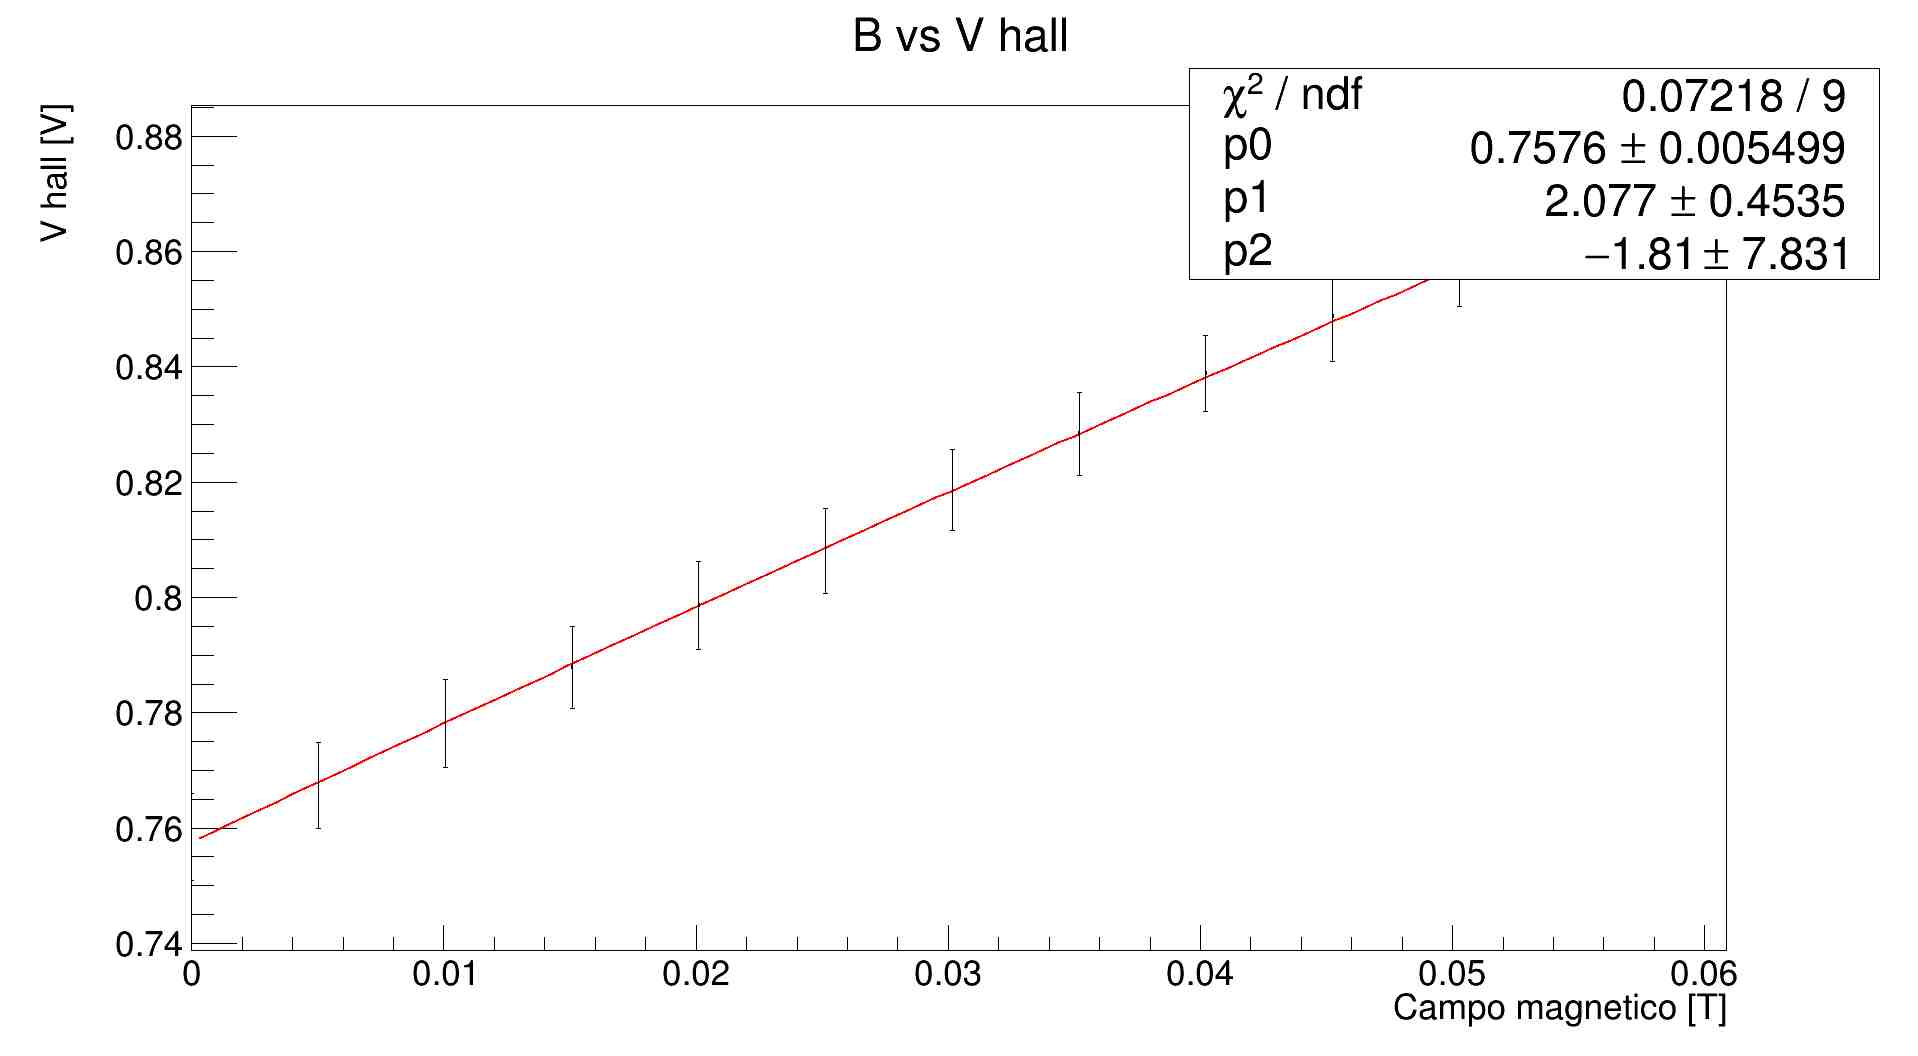
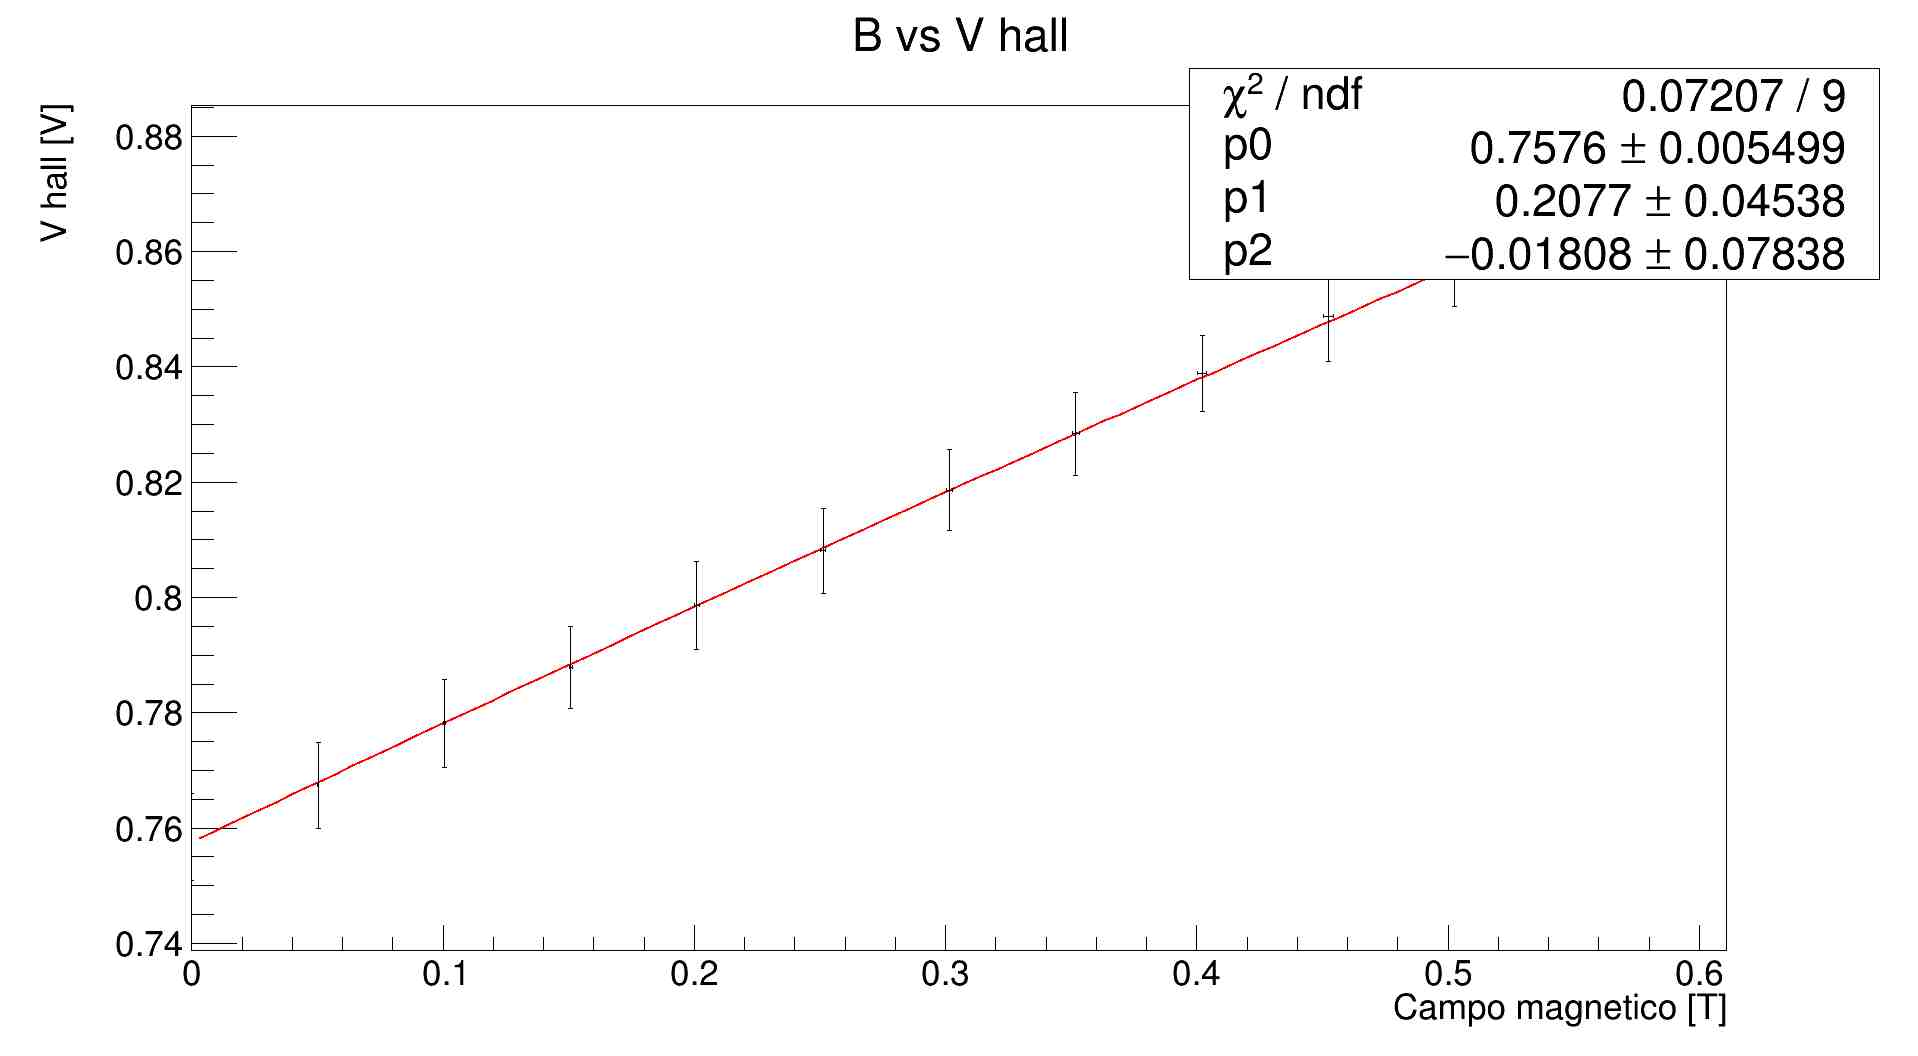
dati 2.0

diff --git a/macroVlong.C b/macroVlong.C
@@ -1,10 +1,10 @@
 {
 
-    double_t V , v , B , b , EV , ev , EB , eb;
+    double V , v , B , b , EV , ev , EB , eb;
     double V_hall , V_long;
     int i=0;
-    string fileName = "VhvsB+.dat"
-    string filename = "VhvsB-.dat"
+    string fileName = "VhvsB+.dat";
+    string filename = "VhvsB-.dat";
 
     ifstream input1(fileName);
     ifstream input2(filename);
@@ -12,65 +12,47 @@
 
     ofstream out1("vhall.dat");
     ofstream out2("vlong.dat");
+    
+    TGraphErrors vhall, vlong;
 
-/*
-    TLatex t1, t2;
-    string title1 = t1.DrawLatex(0.5 , .6 ,"tensione di hall vs campo magnetico")
-    string title2 = t2.DrawLatex(0. , .6 ,"V_long vs campo magnetico")
-*/
-
-    auto *c1 = new TCanvas( "c1" , "tensione di hall vs campo magnetico") 
-    auto *c1 = new TCanvas( "c1" , "V_long vs campo magnetico") 
-
-    auto *vhall  = new TGraphErrors;
-    auto *vlong  = new TGraphErrors;
-
-
-    const char *function1 = "[0] + [1]*x"
-    const char *function2 = "[2] + [3]*pow(x,2)"
-
-
-    auto *f1 = new TF1("f1", function1)
-    auto *f2 = new TF1("f2", function2)
+    TF1 function1 ("f1","[0] + [1]*x");
+    TF1  function2 ("f2","[2] + [3]*pow(x,2)");
 
 
     while (input1 >> V >> B >> EV >> EB) // maiuscole B+ , minuscole B-
     {
-        intput2 >> v >> b >> ev >> eb
+        input2 >> v >> b >> ev >> eb;
 
-        V_hall = (V-v)/2
-        V_long = (V+v)/2
+        V_hall = (V-v)/2;
+        V_long = (V+v)/2;
 
-        ev_both = sqrt(pow(EV,2)+pow(ev,2))
+        double ev_both = sqrt(pow(EV,2)+pow(ev,2));
 
-        out1 << V_hall << B << ev_both << EB
-        out2 << V_long << B << ev_both << EB
+        //out1 << V_hall << B << ev_both << EB;
+        //out2 << V_long << B << ev_both << EB;
 
 
-        vhall->SetPoint(i, B , V_hall)
-        vlong->SetPoint(i, B , V_long)
+        vhall.SetPoint(i, B , V_hall);
+        vlong.SetPoint(i, B , V_long);
 
-        vhall->SetPointError(i, EB , ev_both)
-        vlong->SetPointError(i, EB , ev_both)
+        vhall.SetPointError(i, EB , ev_both);
+        vlong.SetPointError(i, EB , ev_both);
 
-        i++
+        i++;
         
     }
+
+    TCanvas c1("vhall", "vhall", 1920, 1080);
+    TCanvas c2("vlong", "vlong", 1920, 1080);
+
+    vhall.Fit("f1");
+    vlong.Fit("f2");
+
+    gStyle->SetOptFit();
+    c1.cd();
+    vhall.Draw("AP");
+    c2.cd();
+    vlong.Draw("AP");
+
     
-
-
-
-    vhall->Draw("AP")
-    vlong->Draw("AP")
-
-    vhall->Fit("f1")
-    vlong->Fit("f2")
-
-
-
-
-
-
-
-
 }

diff --git a/dataLab_divide.py b/dataLab_divide.py
@@ -18,8 +18,8 @@ l2 = ufloat(18e-2,1e-3)
 l3 = ufloat(3e-2 , 1e-3)
 l4 = ufloat(3e-2 , 1e-3)
 l5 = ufloat(6e-2 , 1e-3)
-l_t = ufloat(7e-2 , 5e-5)
-l_m_calc = 3*l1 - 3*l4 + 0.5*l2 -l_t
+l_t = ufloat(7e-3 , 5e-5)
+l_m_calc = 2*l1 - 4*l4 + l2 - l_t
 l_m_n = l_m_calc.n
 l_m_s = l_m_calc.s
 l_m = ufloat( l_m_n , l_m_s )
@@ -35,7 +35,7 @@ dd = 1 #count divide canvas
 #GRAFICO B vs V_HALL PROGRESSIVO
 gr2 = ROOT.TGraphErrors()
 f2 = ROOT.TF1("f" ,"[0] + [1] * x + [2] * pow(x,2)")
-#c2 = ROOT.TCanvas("c1", "canvas", 1920, 1080)
+c2 = ROOT.TCanvas("c1", "canvas", 1920, 1080)
 gr2.SetTitle("B vs V hall")
 gr2.GetXaxis().SetTitle("Campo magnetico [T]")
 gr2.GetYaxis().SetTitle("V hall [V]")
@@ -45,7 +45,7 @@ nn = 0 #counter punti
 corr = ["0.00", "0.10", "0.20", "0.30", "0.40", "0.50", "0.60", "0.70", "0.80", "0.90", "1.00", "1.10"]
 for I in corr:
 	print("top")
-	vHallFile = open("serial_output+_50/vHall{}.dat".format(I), "r")
+	vHallFile = open("serial_output-_150/vHall{}.dat".format(I), "r")
 
 	#data = vHallFile.readline().decode('utf-8').rstrip()
 	#print (data)
@@ -86,17 +86,17 @@ for I in corr:
 	#inserisco punto in grafico Vhall vs B
 	gr2.SetPoint(nn, B, V_hall_mean)
 	gr2.SetPointError(nn, eB, V_hall_dev)
-	'''
+
 	if nn==0:
 		c2.cd()
 		gr2.Draw("AP")
 	else:
 		c2.Modified()
 		c2.Update()
-		ROOT.gPad.Update()
-		gSystem.ProcessEvents()
+		#ROOT.gPad.Update()
+		#gSystem.ProcessEvents()
 	nn += 1
-	'''
+
 #CHIUSURA FILE
 plot_rough.close()
 
@@ -109,11 +109,11 @@ plot_rough.close()
       
 """
 c.SaveAs("output/istoV_hall_{}.jpg".format(I))
-'''
+
 gr2.Fit("f")
 c2.Modified()
 c2.Update()
 c2.SaveAs("output/B_vs_Vhall.jpg")
-'''
+
 while True:
 	ccc = 0

diff --git a/dataLab.py b/dataLab.py
@@ -18,8 +18,8 @@ l2 = ufloat(18e-2,1e-3)
 l3 = ufloat(3e-2 , 1e-3)
 l4 = ufloat(3e-2 , 1e-3)
 l5 = ufloat(6e-2 , 1e-3)
-l_t = ufloat(7e-2 , 5e-5)
-l_m_calc = 3*l1 - 3*l4 + 0.5*l2 -l_t
+l_t = ufloat(7e-3 , 5e-5)
+l_m_calc = 2*l1 - 4*l4 + l2 - l_t
 l_m_n = l_m_calc.n
 l_m_s = l_m_calc.s
 l_m = ufloat( l_m_n , l_m_s )
